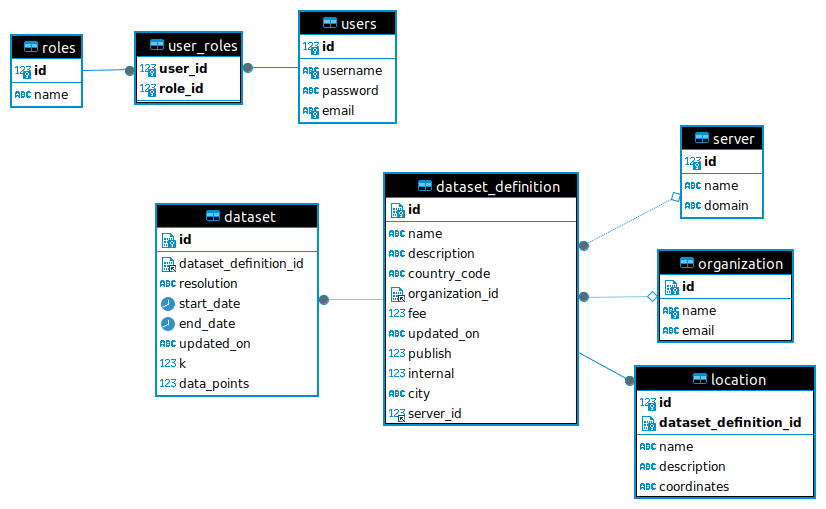
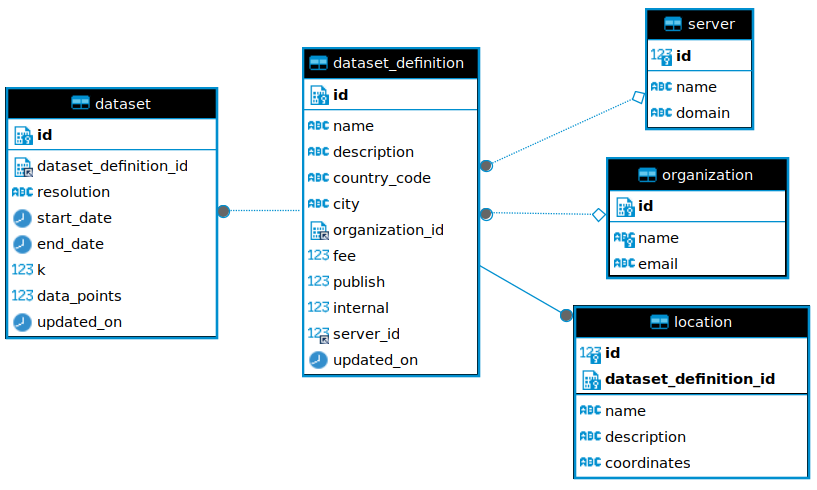
Update database diagram

Changed region(s): [[0.0, 0.0, 1.0, 0.9796], [0.6426, 0.2755, 0.6732, 0.3061]]

diff --git a/Mobility/src/main/java/com/utipdam/mobility/SendEmail.java b/Mobility/src/main/java/com/utipdam/mobility/SendEmail.java
@@ -59,6 +59,11 @@ public class SendEmail {
             String body = sanitizeHTML(email.getMessage());
             msg = msg + body;
 
+
+            String footer ="<br/><br/><center><b style='color:blue;'>Sent by <a href=\"https://ngi.cs.co.il\" target=\"_blank\">UtiP-DAM</a><br/>ⓒ 2024 Correlation Systems</b><br/><br/></center>";
+
+            msg = msg + footer;
+
             MimeBodyPart mimeBodyPart = new MimeBodyPart();
             mimeBodyPart.setContent(msg, "text/html; charset=utf-8");
 

diff --git a/Mobility/src/main/java/com/utipdam/mobility/model/entity/DatasetDefinition.java b/Mobility/src/main/java/com/utipdam/mobility/model/entity/DatasetDefinition.java
@@ -75,5 +75,6 @@ public class DatasetDefinition implements Serializable {
         if (datasetDefinition.getInternal()!= null) {
             this.internal = datasetDefinition.getInternal();
         }
+        this.updatedOn = new SimpleDateFormat("yyyy-MM-dd HH:mm:ss").format(Calendar.getInstance().getTime());
     }
 }

diff --git a/Mobility/src/main/java/com/utipdam/mobility/model/entity/Dataset.java b/Mobility/src/main/java/com/utipdam/mobility/model/entity/Dataset.java
@@ -58,6 +58,7 @@ public class Dataset {
         if (dataset.getK() != null) {
             this.k = dataset.getK();
         }
+        this.updatedOn = new SimpleDateFormat("yyyy-MM-dd HH:mm:ss").format(Calendar.getInstance().getTime());
     }
 
 }
